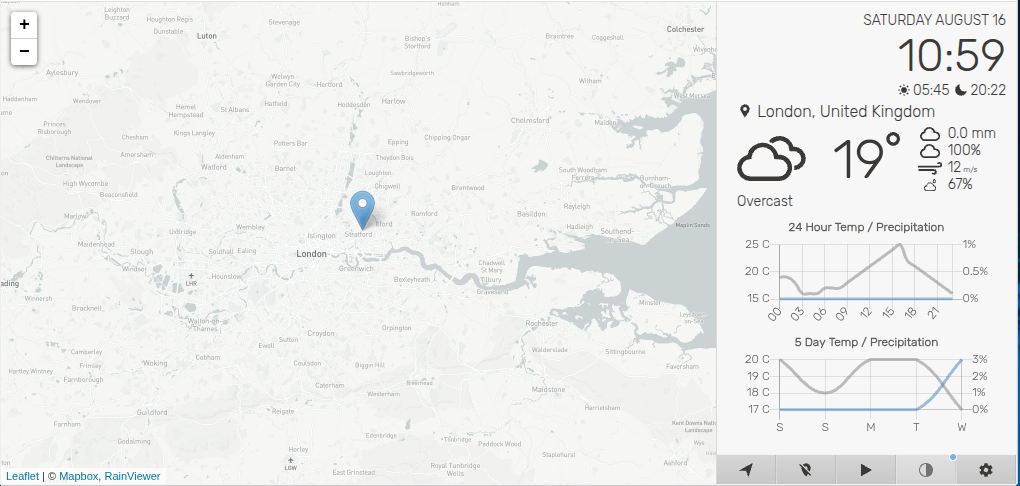
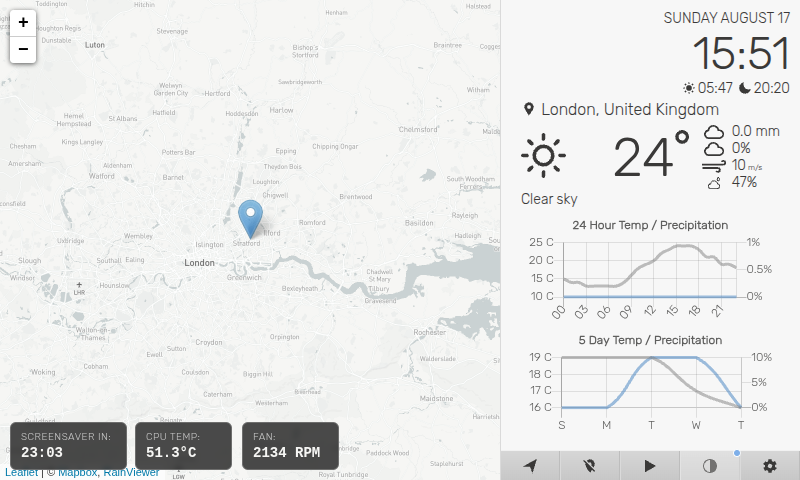
Update screenshot and documentation
- Replace screenshot with current application showing system monitoring
- Add system monitoring and screensaver features to README enhanced features list
- Screenshot shows working CPU temperature and fan speed displays

🤖 Generated with [Claude Code](https://claude.ai/code)

diff --git a/readme.md b/readme.md
@@ -17,6 +17,8 @@ Sunrise and Sunset times are provided by [Sunrise-Sunset](https://sunrise-sunset
 
 - **Free Weather API**: Now uses Open-Meteo API (free, no key required) instead of paid services
 - **Automatic Dark Mode**: Switches between light/dark themes based on sunrise/sunset times
+- **System Monitoring**: Real-time CPU temperature and fan speed monitoring
+- **Screensaver Protection**: Prevents pixel burn-in with configurable timeout and content types
 - **5-Day Forecast**: Updated from 7-day due to API limitations
 - **Improved Performance**: Optimized data fetching and reduced API calls
 - **Enhanced UI**: Better responsive design and touch interactions
